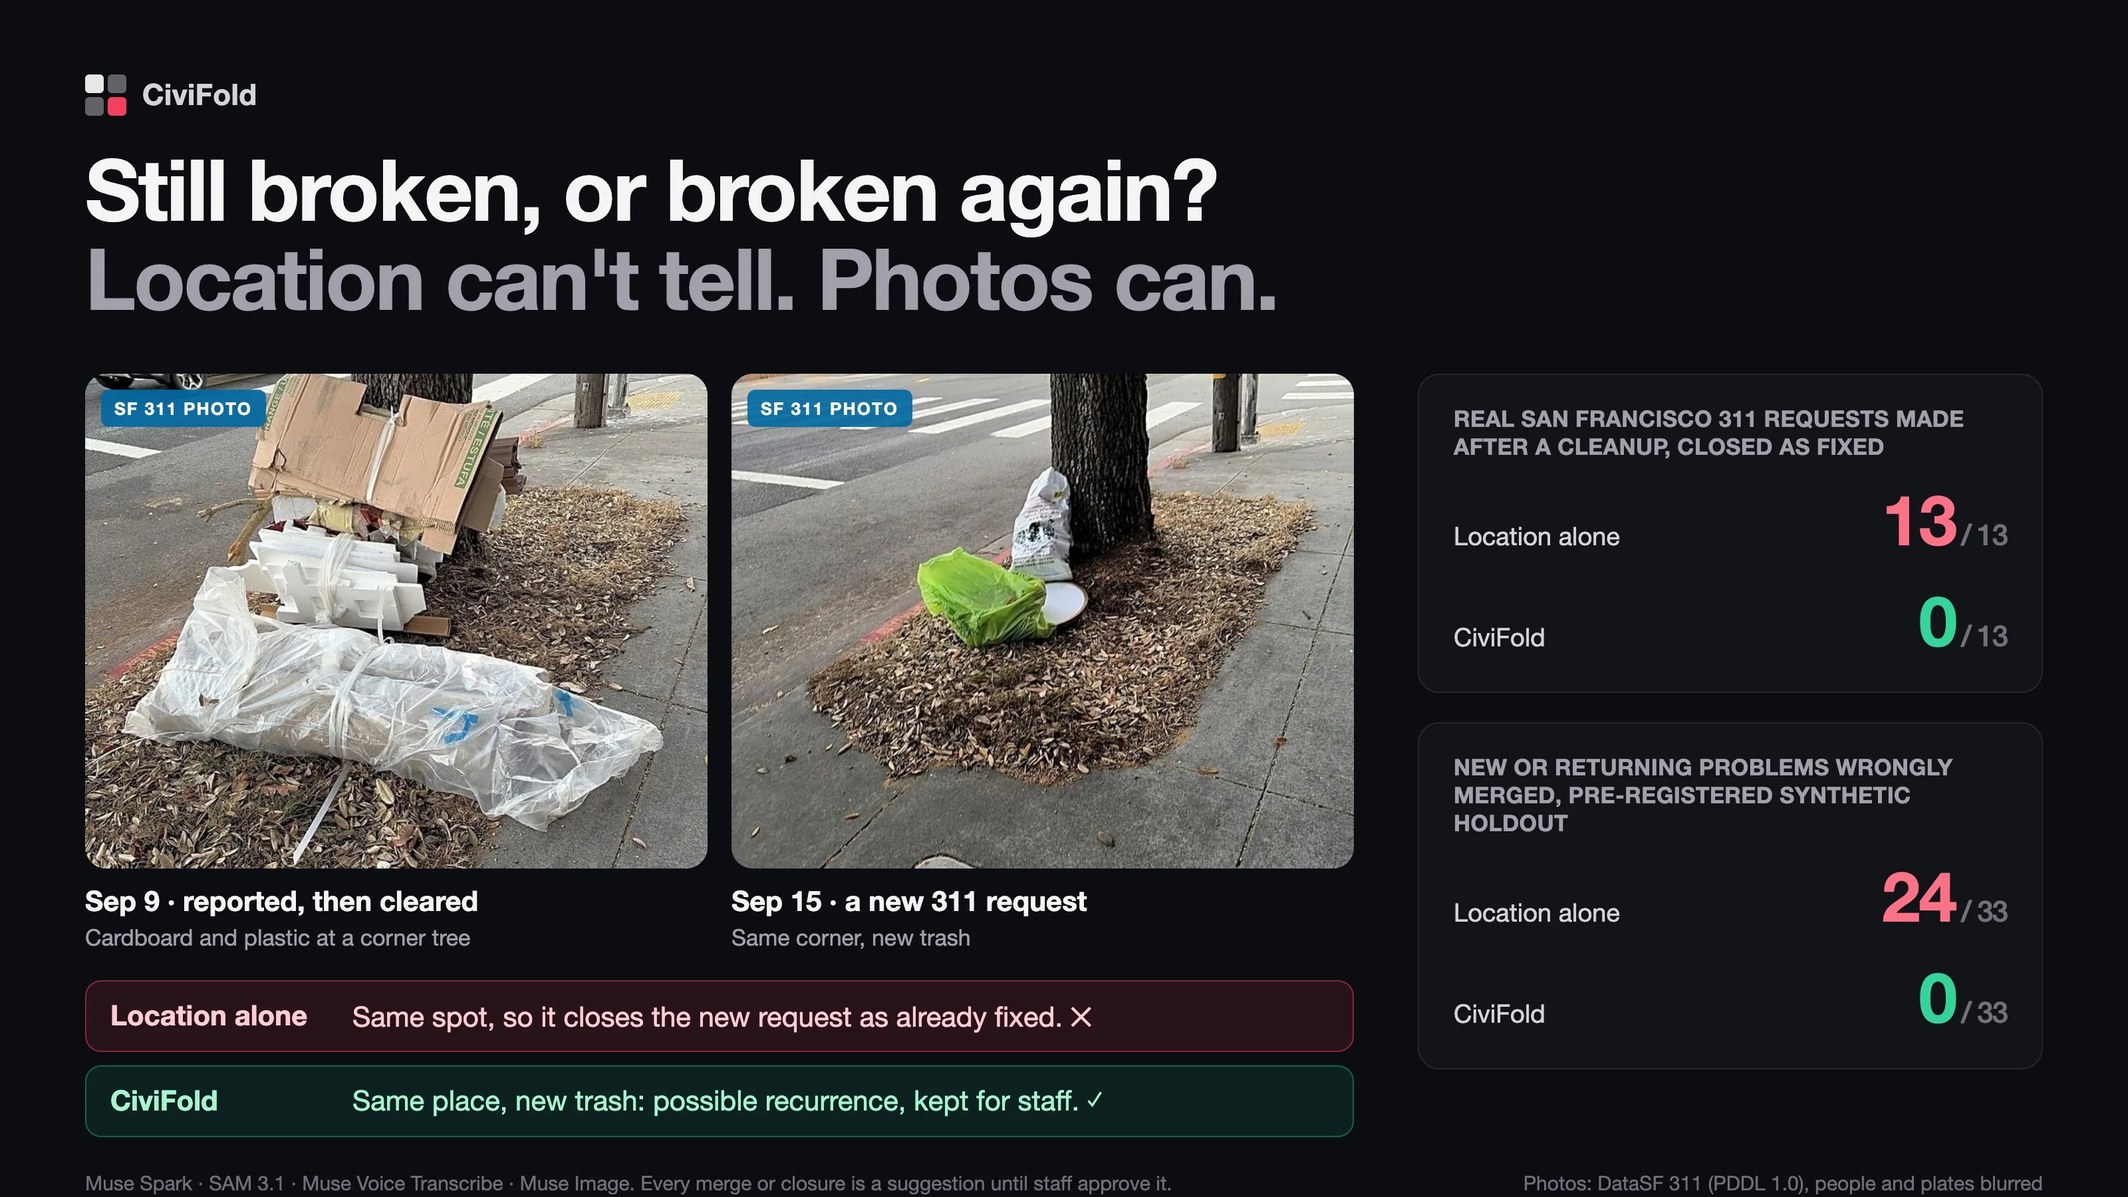
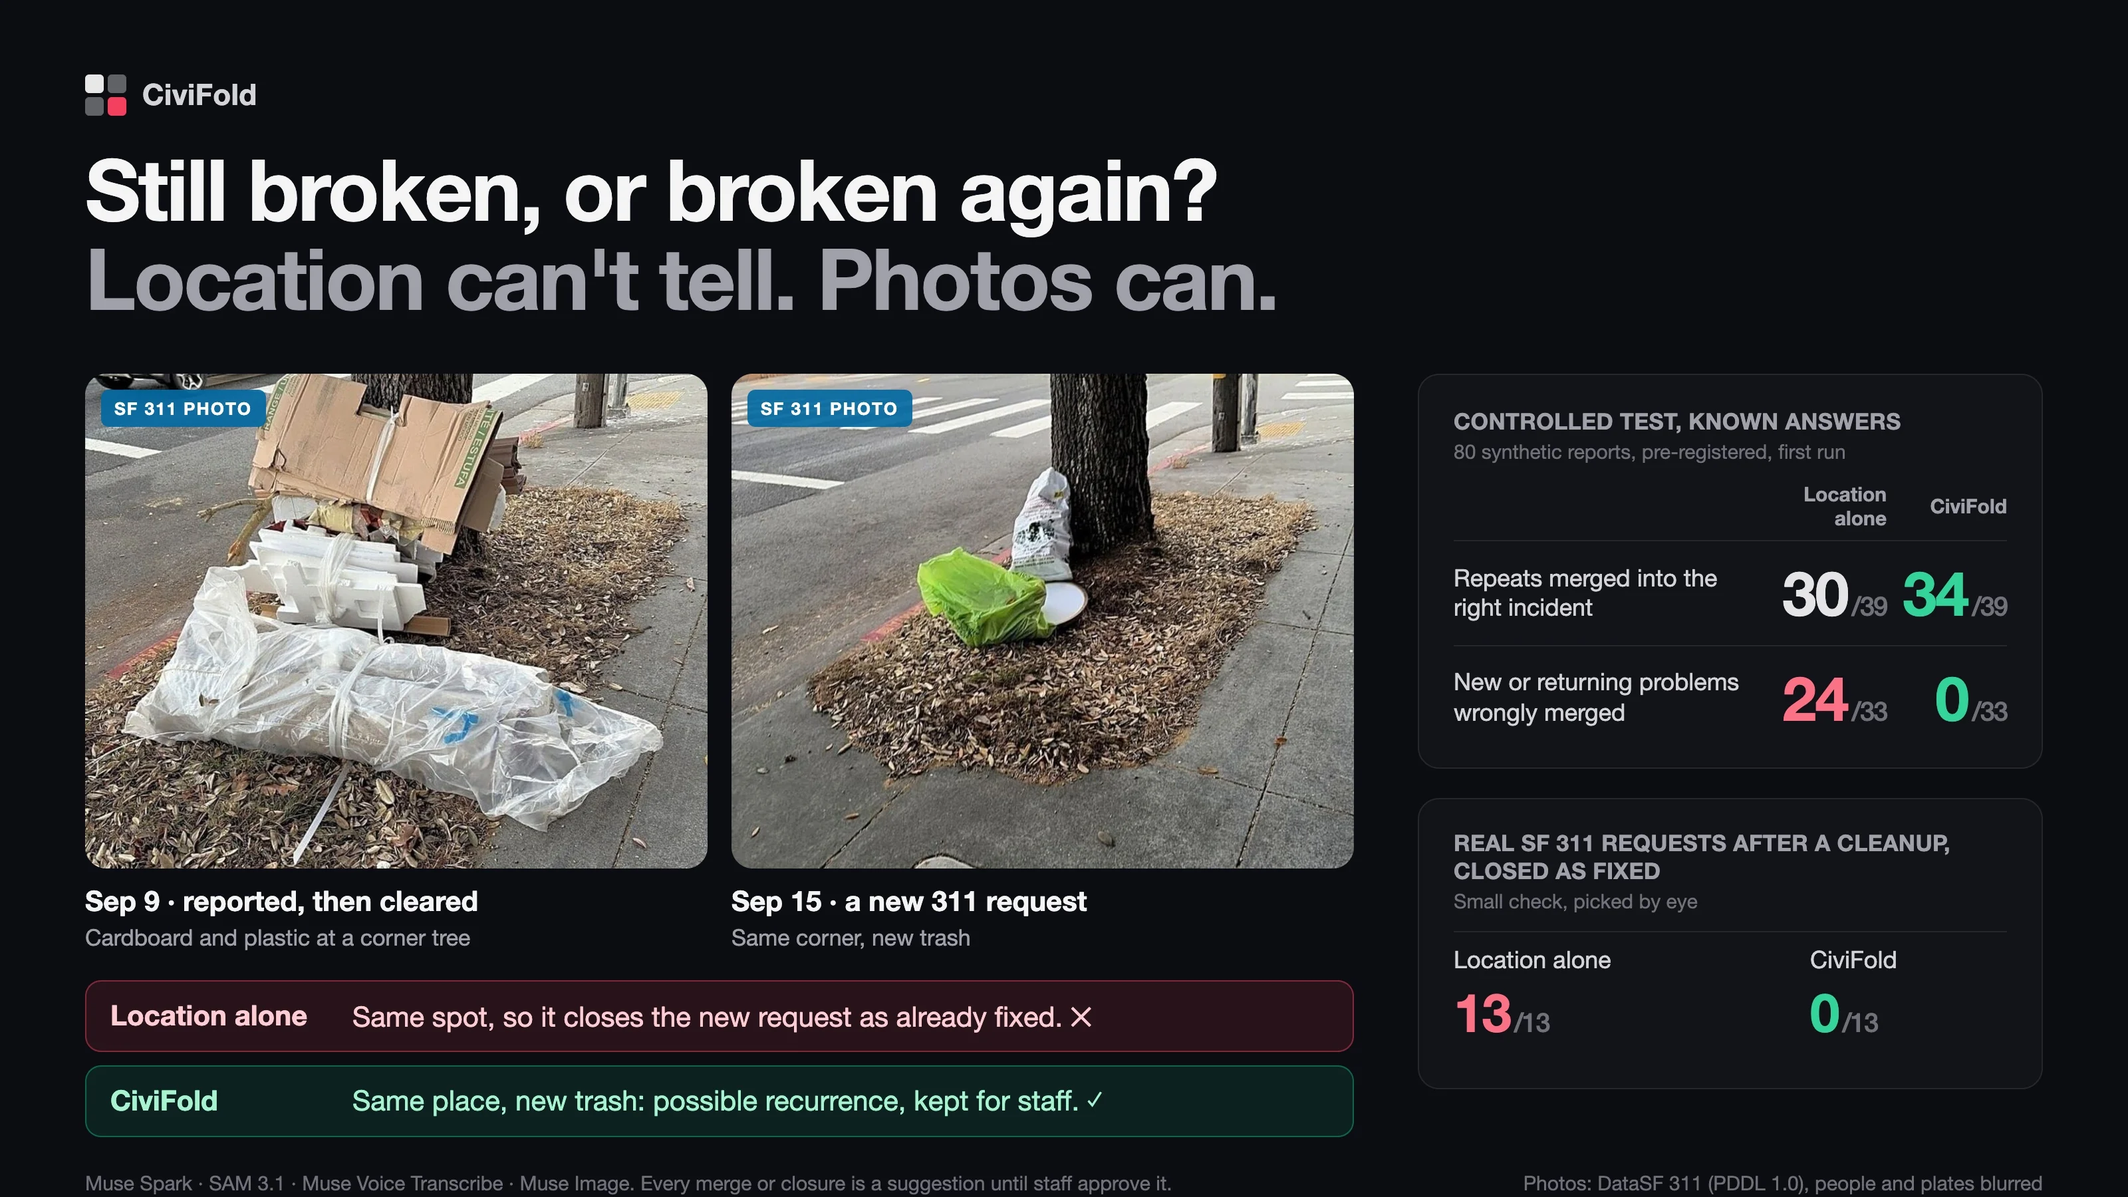
Lead the results with the controlled test, and drop the demo's real scoreboard
- The landing's results open with the pre-registered synthetic holdout, better on both sides (34 of 39 repeats merged, 0 of 33 problems wrongly merged), then the real-photo check as one row with its trade-off in words.
- The hero figure and the README table follow the same order.
- The demo's real tab goes straight to its cases, with a link to how they were measured.

diff --git a/app/(public)/page.tsx b/app/(public)/page.tsx
@@ -73,7 +73,24 @@ export default function Home() {
 
       <section id="results" className="mx-auto max-w-6xl scroll-mt-16 border-t border-zinc-200 px-4 py-12">
         <h2 className="text-xl font-semibold tracking-tight text-zinc-900">What a location rule buries</h2>
-        <div className="mt-5 grid gap-x-10 gap-y-10 xl:grid-cols-2">
+        <div className="mt-5 grid gap-x-10 gap-y-10 xl:grid-cols-[1.1fr_1fr]">
+          <div>
+            <h3 className="text-sm font-semibold text-zinc-900">A controlled test with known answers</h3>
+            <p className="mt-1 text-sm leading-relaxed text-zinc-600">
+              A pre-registered synthetic holdout: 80 reports at 16 places CiviFold had never seen, generated with Muse Image, with look-alikes and repairs
+              placed on purpose and every answer known, scored on its first run. Location alone links a report to the nearest incident of the same kind
+              within {SEARCH_CONFIG.radius_m.fire_hydrant} m.
+            </p>
+            <div className="mt-4 overflow-hidden rounded-lg border border-zinc-200">
+              <Scoreboard compact />
+            </div>
+            <p className="mt-3 text-xs leading-relaxed text-zinc-500">
+              More repeats merged into the right incident, and no problem wrongly merged. Location alone also merged {HELD_OUT.location.wrongIncident}{" "}
+              duplicates into the wrong incident; CiviFold merged none into the wrong incident. {HELD_OUT.civifold.afterQuestion} of CiviFold&apos;s{" "}
+              {HELD_OUT.civifold.right} correct merges came after one follow-up question, answered by a simulated resident. The other 8 of the 80 were already
+              fixed and are counted in neither row.
+            </p>
+          </div>
           <div>
             <h3 className="text-sm font-semibold text-zinc-900">Real San Francisco 311 photos</h3>
             <p className="mt-1 text-sm leading-relaxed text-zinc-600">
@@ -81,32 +98,17 @@ export default function Home() {
               checks ran. Location alone links a request to the earlier one at the same spot.
             </p>
             <div className="mt-4 overflow-hidden rounded-lg border border-zinc-200">
-              <RealScoreboard compact />
+              <RealScoreboard compact closedOnly />
             </div>
             <p className="mt-3 text-xs leading-relaxed text-zinc-500">
               Of the {REAL_SF.afterCleanup} requests made after a cleanup, CiviFold suggested closing none: it flagged {REAL_SF.civifold.recurrence} as possible
-              recurrences, suggested 2 as new problems, asked the resident about 7 and sent 1 to staff. When both photos showed the same pile or damage, it
-              suggested fewer merges than location alone: without a sure match, it asks for another photo or leaves the call to staff. These are small spot checks,
-              not a benchmark.{" "}
+              recurrences, suggested 2 as new problems, asked the resident about 7 and sent 1 to staff. On {REAL_SF.samePairs} pairs whose photos showed the same
+              pile or damage, it suggested merging {REAL_SF.civifold.merged}, where location alone merges all of them: without a sure match, it asks for
+              another photo or leaves the call to staff. These are small spot checks, not a benchmark.{" "}
               <a href={EVAL_REAL} className="underline underline-offset-2 hover:text-zinc-900">
                 How they were picked, and every result
               </a>
               .
-            </p>
-          </div>
-          <div>
-            <h3 className="text-sm font-semibold text-zinc-900">Pre-registered synthetic holdout</h3>
-            <p className="mt-1 text-sm leading-relaxed text-zinc-600">
-              The newest holdout: 80 reports at 16 places CiviFold had never seen, with look-alikes and repairs placed on purpose, scored on its first
-              run. Location alone links a report to the nearest incident of the same kind within {SEARCH_CONFIG.radius_m.fire_hydrant} m.
-            </p>
-            <div className="mt-4 overflow-hidden rounded-lg border border-zinc-200">
-              <Scoreboard compact />
-            </div>
-            <p className="mt-3 text-xs leading-relaxed text-zinc-500">
-              Location alone also merged {HELD_OUT.location.wrongIncident} duplicates into the wrong incident; CiviFold merged none into the wrong incident.{" "}
-              {HELD_OUT.civifold.afterQuestion} of CiviFold&apos;s {HELD_OUT.civifold.right} correct merges came after one follow-up question, answered by a simulated
-              resident. The other 8 of the 80 were already fixed and are counted in neither row.
             </p>
           </div>
         </div>

diff --git a/app/(public)/demo/page.tsx b/app/(public)/demo/page.tsx
@@ -9,11 +9,10 @@ import { ASSET_FILE } from "@/lib/dataset/static";
 import { SCENARIOS } from "@/lib/demo/scenarios";
 import { defaultMode } from "@/lib/meta/call";
 import { liveDailyUsd } from "@/lib/server/runtime";
-import { HELD_OUT, REAL_SF, RealScoreboard, Scoreboard } from "@/app/_ui/scoreboard";
+import { HELD_OUT, Scoreboard } from "@/app/_ui/scoreboard";
 import type { Label } from "@/lib/tools/types";
 import { DemoRunner, type CaseView, type OtherView } from "./demo-runner";
 
-const EVAL_REAL = "https://github.com/Hyeon-moGu/CiviFold/blob/main/eval/README.md#real-311-photos-san-francisco";
 
 export const metadata = { title: "Demo · CiviFold" };
 export const dynamic = "force-dynamic";
@@ -183,25 +182,14 @@ export default async function DemoPage({ searchParams }: { searchParams: Promise
   // A replay-only deployment with no live budget offers no live run, rather than one that falls back to the replay.
   const live = defaultMode() !== "cached" || liveDailyUsd() > 0;
   const realIntro = (
-    <>
-      <div className="overflow-hidden rounded-xl border border-zinc-200 bg-white">
-        <RealScoreboard />
-        <p className="border-t border-zinc-100 bg-zinc-50 px-4 py-2 text-xs text-zinc-500">
-          Two checks on public San Francisco 311 requests, chosen by looking at the photos only, with the right answer for each written down before the
-          checks ran. Of the {REAL_SF.afterCleanup} requests made after a cleanup, CiviFold suggested closing none: it flagged {REAL_SF.civifold.recurrence} as
-          possible recurrences, suggested 2 as new problems, asked the resident about 7 and sent 1 to staff. Every merge is a suggestion until staff approve
-          it.{" "}
-          <a href={EVAL_REAL} className="whitespace-nowrap font-medium text-zinc-900 underline underline-offset-2">
-            How it was checked →
-          </a>
-        </p>
-      </div>
-      <p className="max-w-3xl text-sm text-zinc-500">
-        Four pairs from those checks. In each, two residents reported the same spot, and the demo sends the second report with its real place and
-        time. Case 1 is where location alone goes wrong. Cases 2 to 4 are true duplicates, so location alone is right too: CiviFold suggests merging one, sends
-        one to staff and asks about one. Photos: {REAL_CREDIT}.
-      </p>
-    </>
+    <p className="max-w-3xl text-sm text-zinc-500">
+      Four pairs of real San Francisco 311 requests, chosen by looking at the photos only. In each, two residents reported the same spot, and the demo
+      sends the second report with its real place and time. Case 1 is where location alone goes wrong. Cases 2 to 4 are true duplicates, so location
+      alone is right too: CiviFold suggests merging one, sends one to staff and asks about one. Photos: {REAL_CREDIT}.{" "}
+      <Link href="/#results" className="whitespace-nowrap font-medium text-zinc-900 underline underline-offset-2">
+        How it was measured →
+      </Link>
+    </p>
   );
   const syntheticIntro = (
     <>

diff --git a/app/_ui/scoreboard.tsx b/app/_ui/scoreboard.tsx
@@ -89,15 +89,17 @@ export function Scoreboard({ compact = false }: { compact?: boolean }) {
 }
 
 /** The real San Francisco 311 photo checks. */
-export function RealScoreboard({ compact = false }: { compact?: boolean }) {
+export function RealScoreboard({ compact = false, closedOnly = false }: { compact?: boolean; closedOnly?: boolean }) {
   const { location: lo, civifold: cf } = REAL_SF;
   return (
     <Board
       compact={compact}
-      rows={[
+      rows={(
+        [
         { measure: "New trash after a cleanup, closed as fixed", note: "the same spot, should stay open", of: REAL_SF.afterCleanup, location: [lo.closed, "text-rose-700"], civifold: [cf.closed, "text-emerald-700"] },
         { measure: "Same pile or damage, merged", note: "the right call here", of: REAL_SF.samePairs, location: [lo.merged, "text-zinc-900"], civifold: [cf.merged, "text-zinc-900"] },
-      ]}
+        ] as Row[]
+      ).slice(0, closedOnly ? 1 : 2)}
     />
   );
 }

diff --git a/README.md b/README.md
@@ -12,17 +12,17 @@
   <a href="#run-locally">Run locally</a>
 </p>
 
-![Still broken, or broken again? Two real San Francisco 311 photos of one corner tree: trash reported and cleared on September 9, and new trash at the same corner on September 15. Location alone closes the new request as already fixed; CiviFold keeps it apart as a possible recurrence for staff. Real requests made after a cleanup and closed as fixed: location alone 13 of 13, CiviFold 0 of 13. New or returning problems wrongly merged on a pre-registered synthetic holdout: location alone 24 of 33, CiviFold 0 of 33.](media/hero.webp)
+![Still broken, or broken again? Two real San Francisco 311 photos of one corner tree: trash reported and cleared on September 9, and new trash at the same corner on September 15. Location alone closes the new request as already fixed; CiviFold keeps it apart as a possible recurrence for staff. On a controlled test of 80 pre-registered synthetic reports, repeats merged into the right incident: location alone 30 of 39, CiviFold 34 of 39; new or returning problems wrongly merged: location alone 24 of 33, CiviFold 0 of 33. Real requests made after a cleanup and closed as fixed: location alone 13 of 13, CiviFold 0 of 13.](media/hero.webp)
 
 CiviFold groups duplicate photo reports for city staff and keeps a recurrence, or the look-alike next door, out of the pile. Its default pipeline (Muse Spark, SAM 3.1 and rules, called the fast path below) compares what the photos show, then applies the repair history. Every link and closure is a suggestion until a staff member approves it.
 
-| Suggestions, first run | Location alone | **CiviFold** |
+| Suggestions | Location alone | **CiviFold** |
 |---|---|---|
-| Real SF 311 requests made after a cleanup, closed as already fixed | 13 / 13 | **0 / 13** |
-| Real SF 311 pairs showing the same pile or damage, merged (the right call) | 33 / 33 | 14 / 33 |
-| Synthetic holdout (pre-registered): new or returning problems wrongly merged | 24 / 33 | **0 / 33** |
+| **Controlled test**, 80 synthetic reports, pre-registered: repeats merged into the right incident | 30 / 39 | **34 / 39** |
+| **Controlled test**: new or returning problems wrongly merged | 24 / 33 | **0 / 33** |
+| **Real SF 311** requests made after a cleanup, closed as already fixed | 13 / 13 | **0 / 13** |
 
-On real photos CiviFold suggests fewer merges than location alone: of those 33 pairs it asked or sent 17 to staff and wrongly suggested 2 as new problems. The real checks are small and picked by eye; the synthetic holdout places look-alikes and repairs on purpose ([results](#results)).
+The controlled test was generated with Muse Image, with look-alikes and repairs placed on purpose and every answer known, and scored on its first run. On real photos CiviFold suggests fewer merges than location alone: of 33 pairs showing the same pile or damage it suggested merging 14, asked or sent 17 to staff, and wrongly suggested 2 as new problems. The real checks are small and picked by eye ([results](#results)).
 
 > [!TIP]
 > **Try it in three minutes**
@@ -77,23 +77,7 @@ Muse Spark returns its judgment as structured fields the rules can check (same f
 
 ## Results
 
-### Real San Francisco 311 photos
-
-Two checks on public San Francisco 311 requests. Requests were picked by eye from the photos alone, and what counts as right, a miss or critical was written down before the runs; four pairs had been run once earlier to choose the demo photos, and their results count as they came out. Each report ran once, live, through the unchanged fast path at its own place and time ([details](eval/README.md#real-311-photos-san-francisco)). Location alone links each request to the earlier one at its spot.
-
-| Real SF 311 requests, suggestions | Location alone | **Fast path** |
-|---|---|---|
-| New trash after a cleanup at the same spot, closed as already fixed | 13 / 13 | **0 / 13** |
-| Same pile or damage in both photos, merged (the right call) | 33 / 33 | 14 / 33 |
-
-![Four real San Francisco 311 pairs from the demo, each two residents at one spot, with what CiviFold and location alone suggest: new trash at a corner tree after the cleanup, which CiviFold keeps apart as a possible recurrence and location alone closes as already fixed; the same wooden panel a day later, a duplicate for both; the same orange bags from a wider view, which CiviFold sends to staff; the same broken utility cover, where CiviFold asks for another angle. Photos: DataSF 311 public records, people and plates blurred.](media/real-sf.webp)
-
-- **After a cleanup, no closing suggestion.** Of the 13 requests made within 7 days after Public Works' cleanup, it flagged 3 as possible recurrences and kept the other 10 open: 2 as new problems, 7 with a question to the resident and 1 for staff.
-- **It suggests fewer merges on real duplicates and asks more.** When both photos clearly show the same pile or damage, it suggested merging 14 of 33, asked or sent 17 to staff, and suggested 2 as new problems. Road damage asked most: a cut-out of a broken cover or a crack in plain pavement rarely carries a sure match, and a merge needs two independent observations. Of 9 further requests that Public Works closed as duplicates, mostly different items at one corner, it suggested merging 1 and opening 3 as new.
-- **Three real photos** of one dumped pile in Korea, run once with the expectations written first, gave no wrong link and no confirmed duplicate either: the views share no fixed feature, so the fast path asked for a wider shot ([details](eval/README.md#real-world-check)).
-- These are small checks picked by eye, not a measurement, and the duplicate labels are Public Works' operational ones. The demo's four real cases are pairs from the second check.
-
-### Synthetic holdouts
+### Controlled test: synthetic holdouts
 
 ![Bar chart: wrong closing suggestions on reports that needed attention, location alone against CiviFold's fast path, on four evaluation sets. test 24 against 1 of 33, holdout 11 against 3 of 16, holdout2 22 against 1 of 33, holdout3 24 against 0 of 33.](media/results.svg)
 
@@ -115,6 +99,22 @@ The latest holdout has 80 reports from 16 assets (8 fixtures or places and their
 - **It asks rather than guesses.** The fast path asked one question (a wider shot, another angle, a close-up or the time) on 23 reports, and 21 ended correct after the simulated answer. Simulated residents always answer; reports nobody answers stay with staff.
 - **Verification stays optional.** On holdout3 it left the critical count unchanged and raised deferrals from 3 to 12. Across all sets it stopped one wrong suggestion.
 - **One change since.** SAM's noun phrase often missed a patched or lifted road surface and cut a dumped pile down to one bag, so those reports got a question even when the whole photos matched. Muse Spark now boxes the damage or the pile, and SAM segments inside the box. Re-run on holdout3, whose photos had been seen by then, the current version again made 0 / 33 wrong closing suggestions, got 60 of 80 right before any answer (51 before) and asked 14 questions instead of 23 ([details and the development-set check](eval/README.md#after-holdout3-road-damage-and-dumped-piles)).
+
+### Real San Francisco 311 photos
+
+Two checks on public San Francisco 311 requests. Requests were picked by eye from the photos alone, and what counts as right, a miss or critical was written down before the runs; four pairs had been run once earlier to choose the demo photos, and their results count as they came out. Each report ran once, live, through the unchanged fast path at its own place and time ([details](eval/README.md#real-311-photos-san-francisco)). Location alone links each request to the earlier one at its spot.
+
+| Real SF 311 requests, suggestions | Location alone | **Fast path** |
+|---|---|---|
+| New trash after a cleanup at the same spot, closed as already fixed | 13 / 13 | **0 / 13** |
+| Same pile or damage in both photos, merged (the right call) | 33 / 33 | 14 / 33 |
+
+![Four real San Francisco 311 pairs from the demo, each two residents at one spot, with what CiviFold and location alone suggest: new trash at a corner tree after the cleanup, which CiviFold keeps apart as a possible recurrence and location alone closes as already fixed; the same wooden panel a day later, a duplicate for both; the same orange bags from a wider view, which CiviFold sends to staff; the same broken utility cover, where CiviFold asks for another angle. Photos: DataSF 311 public records, people and plates blurred.](media/real-sf.webp)
+
+- **After a cleanup, no closing suggestion.** Of the 13 requests made within 7 days after Public Works' cleanup, it flagged 3 as possible recurrences and kept the other 10 open: 2 as new problems, 7 with a question to the resident and 1 for staff.
+- **It suggests fewer merges on real duplicates and asks more.** When both photos clearly show the same pile or damage, it suggested merging 14 of 33, asked or sent 17 to staff, and suggested 2 as new problems. Road damage asked most: a cut-out of a broken cover or a crack in plain pavement rarely carries a sure match, and a merge needs two independent observations. Of 9 further requests that Public Works closed as duplicates, mostly different items at one corner, it suggested merging 1 and opening 3 as new.
+- **Three real photos** of one dumped pile in Korea, run once with the expectations written first, gave no wrong link and no confirmed duplicate either: the views share no fixed feature, so the fast path asked for a wider shot ([details](eval/README.md#real-world-check)).
+- These are small checks picked by eye, not a measurement, and the duplicate labels are Public Works' operational ones. The demo's four real cases are pairs from the second check.
 
 **[Methods, ablations, every set and every recorded run →](eval/README.md)**
 
